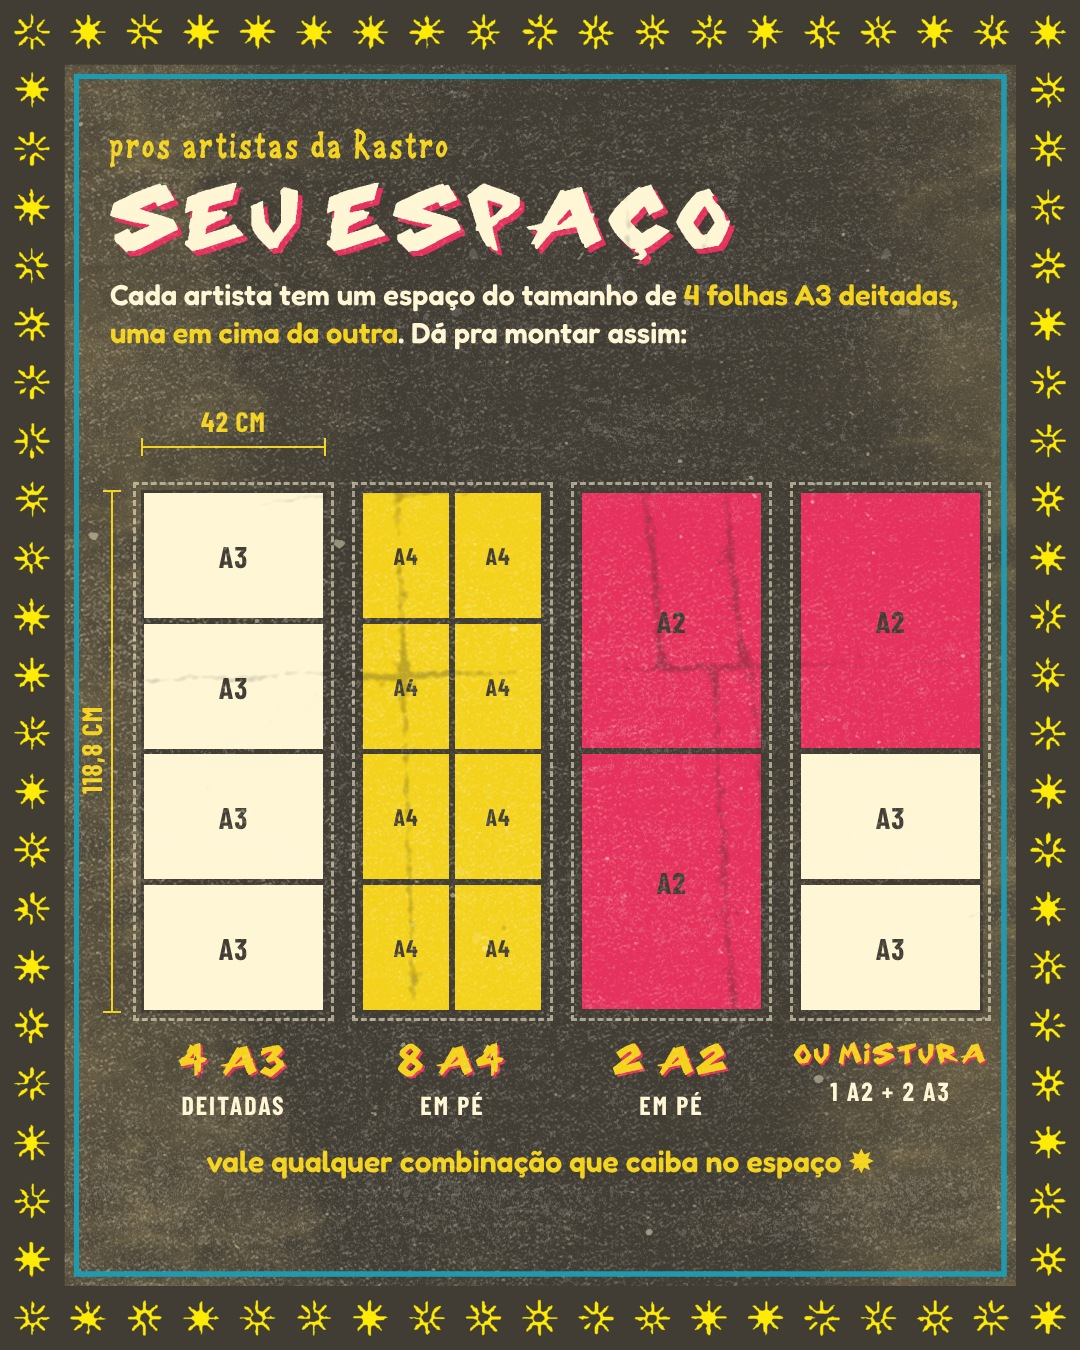
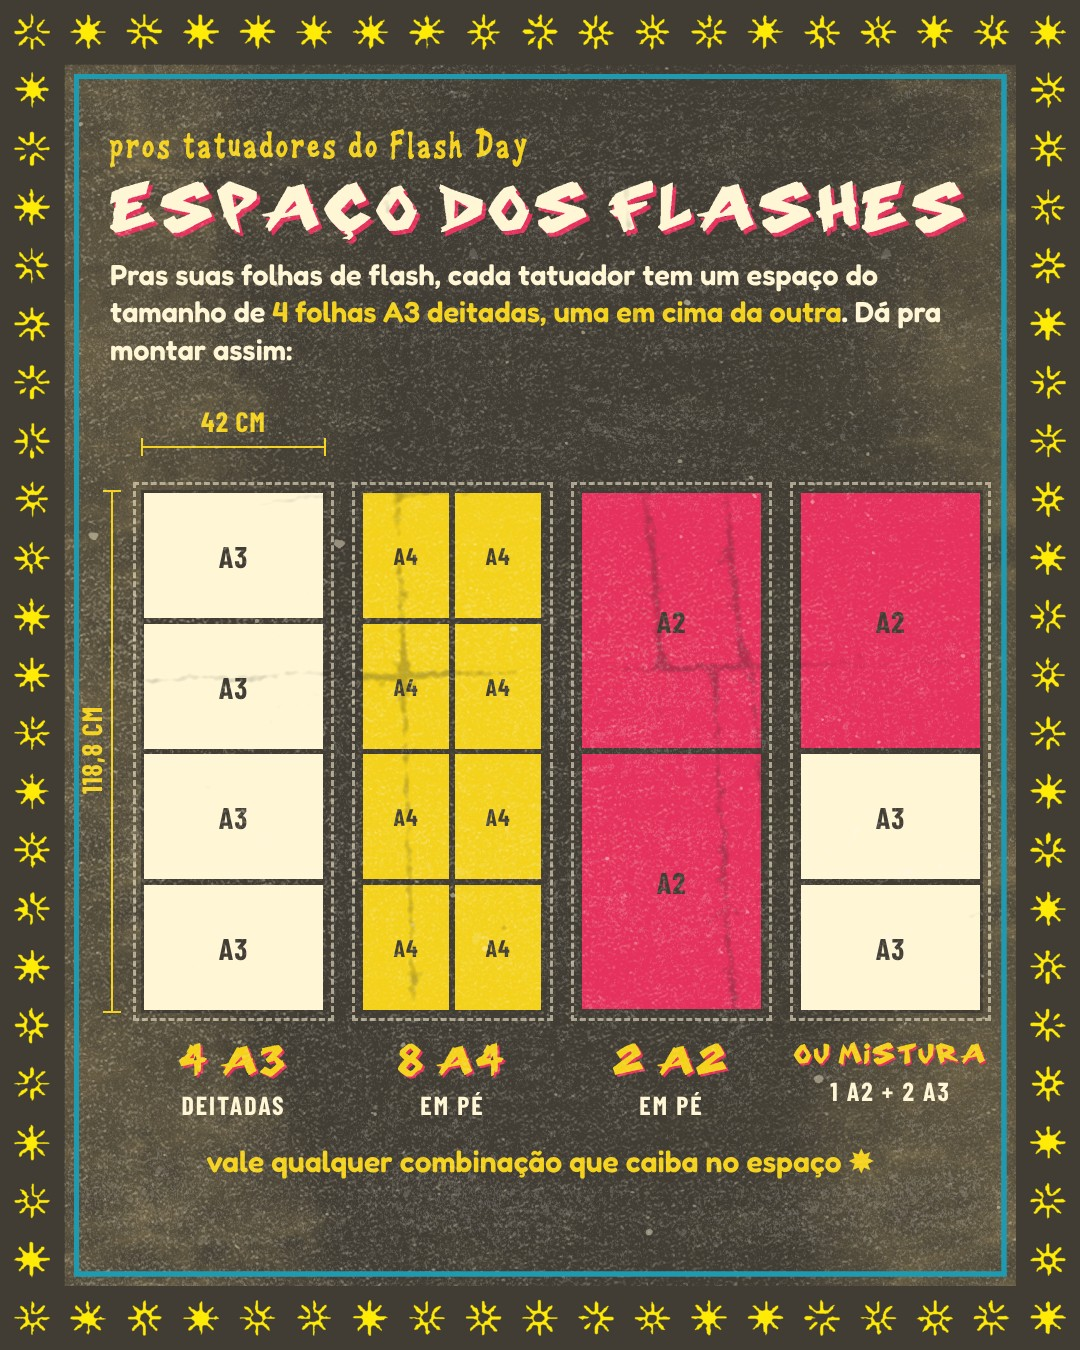
Guia dos artistas: espaço é das folhas de flash; mesa da feira 70x70
Claude-Session: https://claude.ai/code/session_013iuzsFY53eyKyJ7WQU7JqU

Changed region(s): [[0.0917, 0.0933, 0.8861, 0.28]]

diff --git a/artistas/index.html b/artistas/index.html
@@ -97,6 +97,8 @@ footer p{margin:4px 0}
 <div class="box">
 <b>Impressão das folhas:</b> o estúdio, especificamente o Mário (@marink.ttt), pode imprimir as suas folhas de flash. Pra isso, envie o arquivo com <b>dois dias de antecedência, até quinta, 05.11</b>.
 </div>
+<div class="box"><b>Espaço das folhas de flash:</b> cada tatuador tem um espaço de <b>42 cm de largura por 118,8 cm de altura</b>, o tamanho de 4 folhas A3 deitadas, uma em cima da outra. Dá pra montar com 4 A3 deitadas, 8 A4 em pé, 2 A2 em pé ou misturar tamanhos, desde que caiba no espaço.</div>
+<figure><img src="espaco.jpg" alt="Esquema do espaço das folhas de flash, 42 por 118,8 centímetros: cabem 4 folhas A3 deitadas, 8 A4 em pé, 2 A2 em pé ou combinações" width="1080" height="1350" loading="lazy"><figcaption>o espaço das suas folhas de flash ✸</figcaption></figure>
 </section>
 
 <section id="codigo">
@@ -124,12 +126,12 @@ footer p{margin:4px 0}
 <section id="feira">
 <h2><small>QUEM EXPÕE</small>Feira impressa</h2>
 <ul class="check">
-<li>Cada artista tem <b>um espaço com uma mesa</b>.</li>
+<li>Cada artista tem <b>um espaço com uma mesa de 70 × 70 cm</b>.</li>
 <li>Cada um é responsável pelo seu estande: <b>decoração, o que vai expor, a venda e o recebimento do pagamento</b>.</li>
-<li>Precisa de <b>mesa extra</b>? O aluguel é <b>R$ 20,00</b>. Avise com antecedência.</li>
+<li>Precisa de mais espaço que isso? Dá pra alugar uma <b>mesa extra por R$ 20,00</b>. Avise com antecedência.</li>
 <li>Mande no privado da Ayeska <b>o que vai ser exposto e a quantidade</b>.</li>
 </ul>
-<figure><img src="espaco.jpg" alt="Esquema do espaço de 42 por 118,8 centímetros: cabem 4 folhas A3 deitadas, 8 A4 em pé, 2 A2 em pé ou combinações" width="1080" height="1350" loading="lazy"><figcaption>o seu espaço e as combinações possíveis ✸</figcaption></figure>
+
 </section>
 
 <section id="duvidas">
@@ -140,6 +142,8 @@ footer p{margin:4px 0}
 <details><summary>Na feira impressa, quem recebe o pagamento?</summary><p>Você mesmo. Na feira impressa, cada artista cuida da venda e do recebimento no seu estande.</p></details>
 <details><summary>Como coloco o código no flash?</summary><p>Do jeito que combinar com a sua folha. Só precisa ter o código (sigla + número) e o preço em cada flash, já no arquivo.</p></details>
 <details><summary>Não sei a minha sigla.</summary><p>Ela está na tabela da seção Código dos flashes e no PDF pra baixar. Se o seu nome não estiver lá, chama a organização.</p></details>
+<details><summary>Qual o tamanho da mesa da feira impressa?</summary><p>70 × 70 cm. Se precisar de mais espaço, dá pra alugar uma mesa extra por R$ 20,00, avisando antes.</p></details>
+<details><summary>Quanto espaço tenho pras folhas de flash?</summary><p>42 × 118,8 cm, o equivalente a 4 folhas A3 deitadas, uma em cima da outra. Tem o esquema na seção Flash Day.</p></details>
 <details><summary>Quem imprime as folhas?</summary><p>Você pode imprimir por conta própria ou mandar o arquivo pro Mário até quinta, 05.11, que o estúdio imprime.</p></details>
 </section>
 </main>
